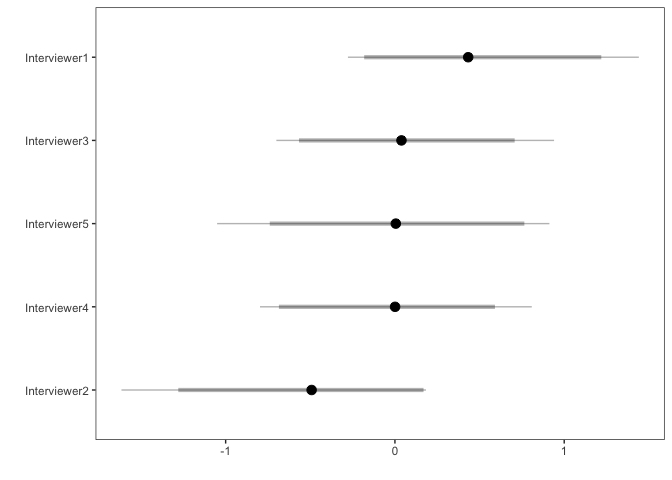
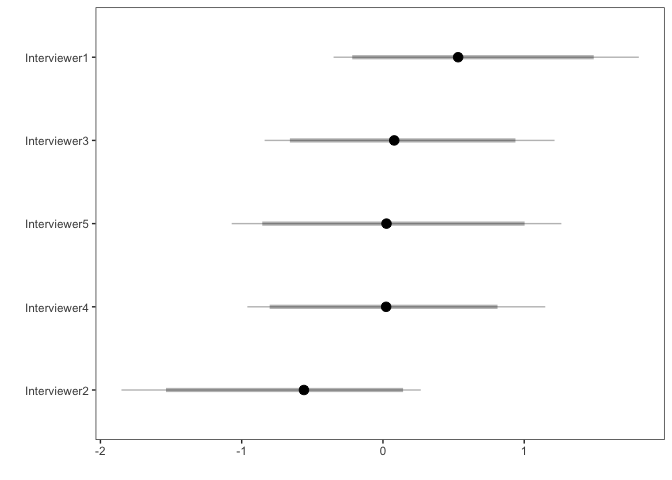
update

diff --git a/reports/predicting_attrition.md b/reports/predicting_attrition.md
@@ -287,9 +287,11 @@ I show here Bayesian logistic random models where the group variable is the inte
 ### Is variance of response explained by interviewers?
 
 ``` r
-fit1 <- stan_glmer(missing_week ~+ (1|id_int),
-                   data = dat,  family = binomial(link = "logit"))
-stan_caterpillar(fit1, pars = "b\\[\\(Intercept\\) id_int\\:[0-9]\\]",
+fit1 <- brm(missing_week ~+ (1|id_int),
+                   data = dat,  family = bernoulli(link = "logit"),
+                    control= list(adapt_delta=.99))
+
+stan_caterpillar(fit1, pars = "^r",
                  pars_label = paste0("Interviewer", 1:5))
 ```
 
@@ -300,10 +302,19 @@ It doesn't seem to be the case!
 ### Predicting first week non-response using covariates
 
 ``` r
-fit1 <- stan_glmer(missing_week ~ z_age + any_kids + edu12 + z_mental_health_score +
+fit1 <- brm(missing_week ~ z_age + any_kids + edu12 + z_mental_health_score +
                    z_residential_instability + employment + hard_drugs + crime +
                     log_sentence_time + (1|id_int),
-                   data = dat,  family = binomial(link = "logit"), adapt_delta = 0.99)
+                   data = dat,  family = bernoulli(link = "logit"),
+                    control= list(adapt_delta=.99))
+
+# pp_check(fit1)
+
+
+# fit1 <- stan_glmer(missing_week ~ z_age + any_kids + edu12 + z_mental_health_score +
+                   # z_residential_instability + employment + hard_drugs + crime +
+                    # log_sentence_time + (1|id_int),
+                   # data = dat,  family = binomial(link = "logit"), adapt_delta = 0.99)
 
 
 # create plot
@@ -323,6 +334,16 @@ mcmc_areas(posterior,
 
 ![](plots/predict-attrition-stan%20first%20week-1.png)
 
+### Marginal effects
+
+``` r
+eff <- c("z_age", "z_residential_instability", "employment")
+plot(marginal_effects(fit1, effects = eff, re_formula = NA, spaghetti = FALSE),
+  points = TRUE, jitter_width = 0, ask = FALSE)
+```
+
+![](plots/predict-attrition-marginal%20effects%20week-1.png)![](plots/predict-attrition-marginal%20effects%20week-2.png)![](plots/predict-attrition-marginal%20effects%20week-3.png)
+
 Age, employment and residential stability seem to be key factors here.
 
 Modeling Non-response: Two months
@@ -333,11 +354,11 @@ Modeling Non-response: Two months
 This time there is more variability by interviewer.
 
 ``` r
-fit1 <- stan_glmer(missing_twomonths ~+ (1|id_int),
-                   data = dat,  family = binomial(link = "logit"))
+fit1 <- brm(missing_twomonths ~+ (1|id_int),
+                   data = dat,  family = bernoulli(link = "logit"),
+                   control= list(adapt_delta=.99) )
 
-summary(fit1)
-stan_caterpillar(fit1, pars = "b\\[\\(Intercept\\) id_int\\:[0-9]\\]",
+stan_caterpillar(fit1, pars = "^r",
                  pars_label = paste0("Interviewer", 1:5))
 ```
 
@@ -346,12 +367,12 @@ stan_caterpillar(fit1, pars = "b\\[\\(Intercept\\) id_int\\:[0-9]\\]",
 ### Predicting two-months non-response using covariates
 
 ``` r
-fit1 <- stan_glmer(missing_twomonths ~ z_age + any_kids + edu12 +  z_mental_health_score +
+fit1 <- brm(missing_twomonths ~ z_age + any_kids + edu12 +  z_mental_health_score +
                    z_residential_instability + employment + hard_drugs
-                   + crime + log_sentence_time +
-                   + (1|id_int),
-                   data = dat,  family = binomial(link = "logit"), adapt_delta = 0.99)
-
+                   + crime + log_sentence_time + (1|id_int),
+                   data = dat,  family = bernoulli(link = "logit"),
+                   control= list(adapt_delta=.99))
+summary(fit1)
 # create plot
 posterior <- as.matrix(fit1)
 
@@ -359,7 +380,6 @@ plot_title <- ggtitle("Posterior distributions Predicting Two Months Non-Respons
                       "with medians and 80% intervals")
 
 # mcmc_areas(posterior) + plot_title
-
 mcmc_areas(posterior,
            regex_pars = c("z_age", "any_kids", "edu12", "z_mental_health_score",
                     "z_residential_instability", "employment", "hard_drugs",
@@ -368,5 +388,15 @@ mcmc_areas(posterior,
 ```
 
 ![](plots/predict-attrition-stan%20two%20months-1.png)
+
+### Marginal effects
+
+``` r
+eff <- c("z_age", "z_residential_instability", "employment")
+plot(marginal_effects(fit1, effects = eff, re_formula = NA, spaghetti = FALSE),
+  points = TRUE, jitter_width = 0, ask = FALSE)
+```
+
+![](plots/predict-attrition-marginal%20effects%20two%20months-1.png)![](plots/predict-attrition-marginal%20effects%20two%20months-2.png)![](plots/predict-attrition-marginal%20effects%20two%20months-3.png)
 
 Same patterns, although noisier estimates. Non-response, as expected, is not random and we will need to correct potential biases by imputing or weighting.
